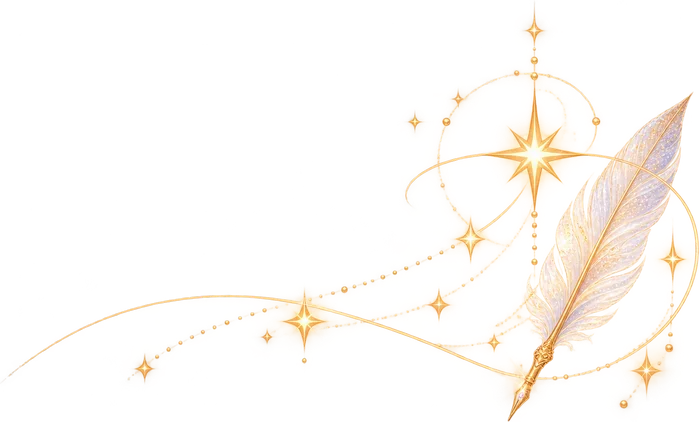
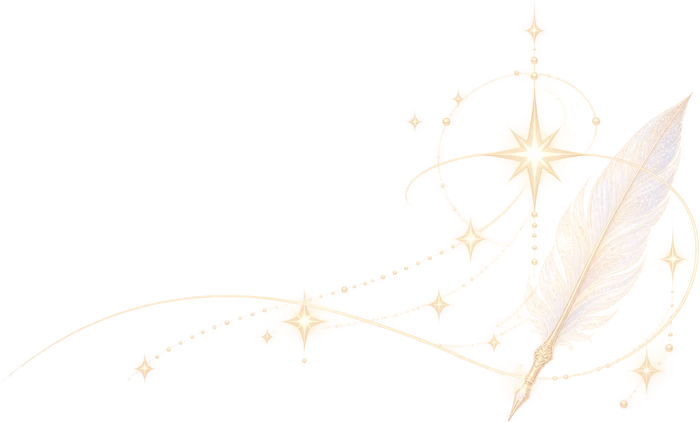
详细解读字级跟主题页一致；字体与句号细修；羽毛笔素材调淡 (#87)
* 详细解读字级跟主题页一致；生命脉络「一个小小的洞察」改宋体

Claude-Session: https://claude.ai/code/session_01MevDwwcWkTnRkVNgnEDisG

* 生命脉络「从这里开始」卡片摘要与重点：字体字级跟主题页一致

Claude-Session: https://claude.ai/code/session_01MevDwwcWkTnRkVNgnEDisG

* 生命蓝图过场副标改宋体；内在指南写字处羽毛笔素材调淡

Claude-Session: https://claude.ai/code/session_01MevDwwcWkTnRkVNgnEDisG

* 写字处提示文字拿掉句号

Claude-Session: https://claude.ai/code/session_01MevDwwcWkTnRkVNgnEDisG

* 内在指南「今天有什么事情」问句字级缩小

Claude-Session: https://claude.ai/code/session_01MevDwwcWkTnRkVNgnEDisG

* 星空记录副标拿掉句号

Claude-Session: https://claude.ai/code/session_01MevDwwcWkTnRkVNgnEDisG

---------

diff --git a/app.html b/app.html
@@ -2852,7 +2852,8 @@
     /* —— 4. 长文的呼吸:本来就自成一句的短段落,给它引句的排法 ——
           文字一个字都没改、没搬、没删,只是这一段的字级与留白不一样。
           由 JS 依内容判断挂上 .pq,每一章最多一句;没有合适的就不会出现。 */
-    #dpage.thread-page .ch-full .dp-prose p.pq{
+    #dpage.thread-page .ch-full .dp-prose p.pq,
+    #dpage.thread-page .thread-trail > .thread-ch .ch-full .dp-prose p.pq{
       position:relative;margin:26px 0 26px;padding:22px 4px 0;
       font-family:var(--dp-serif);font-weight:400;
       font-size:18.5px;line-height:1.95;letter-spacing:.015em;color:#22233a
@@ -3308,11 +3309,11 @@
     box-shadow:0 0 34px rgba(186,176,232,.26),0 10px 26px rgba(96,86,150,.06)
   }
   #dpage.thread-page .thread-bridge .insight .lb{
-    display:block;margin-bottom:12px;font-family:var(--dp-sans);font-size:12.5px;letter-spacing:.2em;color:#8a7351
+    display:block;margin-bottom:12px;font-family:var(--dp-serif);font-size:12.5px;letter-spacing:.2em;color:#8a7351
   }
   #dpage.thread-page .thread-bridge .insight .lb span{color:rgba(196,152,72,.95)}
   #dpage.thread-page .thread-bridge .insight p{
-    margin:0;font-family:var(--dp-sans);font-size:clamp(14.5px,1.6vw,16px);line-height:2;color:#2c2d48
+    margin:0;font-family:var(--dp-serif);font-size:clamp(14.5px,1.6vw,16px);line-height:2;color:#2c2d48
   }
   #dpage.thread-page .thread-bridge .insight p + p{margin-top:8px}
 
@@ -3907,7 +3908,7 @@
     font-size:clamp(23px,2.8vw,30px);letter-spacing:.14em;line-height:1.5;color:#1c1f45;text-shadow:0 1px 10px rgba(255,250,244,.7)
   }
   #dpage.reading-page .rd-transit .s{
-    margin:16px 0 0;font-family:var(--dp-sans);font-size:clamp(13.5px,1.4vw,15px);
+    margin:16px 0 0;font-family:var(--dp-serif);font-size:clamp(13.5px,1.4vw,15px);
     line-height:2;letter-spacing:.05em;color:#34324d;font-weight:500;
     text-shadow:0 1px 8px rgba(255,250,244,.75)
   }
@@ -6507,18 +6508,18 @@
     margin:0;font-family:var(--dp-serif);line-height:1.75;color:var(--dp-ink)
   }
   #dpage.compass-page .cp-now .cp-note-card .cp-q2 b{
-    display:block;font-weight:700;font-size:16px;letter-spacing:.06em
+    display:block;font-weight:700;font-size:14.5px;letter-spacing:.06em
   }
   #dpage.compass-page .cp-now .cp-note-card .cp-q2 span{
-    display:block;font-weight:400;font-size:15px;letter-spacing:.12em;color:#4a4760
+    display:block;font-weight:400;font-size:13.5px;letter-spacing:.12em;color:#4a4760
   }
   #dpage.compass-page .cp-now .cp-note-card .cp-ta{
     display:block;width:100%;max-width:none;box-sizing:border-box;
     min-height:140px;margin:18px 0 0;padding:16px 18px 34px;border-radius:18px;
     text-align:left;line-height:1.9;font-size:15px;
     background:
-      /* 用户:羽毛笔小小的就好 */
-      url(assets/life/cp-mobile/note-quill.webp) right 8px bottom 8px / 92px auto no-repeat,
+      /* 用户:羽毛笔小小的就好;素材本身已调淡(约 42% 不透明),不抢字 */
+      url(assets/life/cp-mobile/note-quill.webp?v=2) right 8px bottom 8px / 92px auto no-repeat,
       rgba(255,255,255,.38);
     border:1px solid rgba(255,255,255,.88);
     box-shadow:none
@@ -6531,8 +6532,8 @@
   @media(min-width:768px){
     #dpage.compass-page .cp-now .cp-note-card{padding:32px 36px 30px}
     #dpage.compass-page .cp-now .cp-note-card .nc-moon{width:156px;height:150px}
-    #dpage.compass-page .cp-now .cp-note-card .cp-q2 b{font-size:18px}
-    #dpage.compass-page .cp-now .cp-note-card .cp-q2 span{font-size:16px}
+    #dpage.compass-page .cp-now .cp-note-card .cp-q2 b{font-size:16px}
+    #dpage.compass-page .cp-now .cp-note-card .cp-q2 span{font-size:14.5px}
     #dpage.compass-page .cp-now .cp-note-card .cp-ta{min-height:160px;background-size:118px auto,auto}
   }
 
@@ -7181,6 +7182,31 @@
   }
   /* 浮窗开着的时候,正文区整层要在 Hero 之上,标题才不会透过浮窗 */
   #dpage.records-page .dp-body:has(.rc-overlay){z-index:3}
+
+  /* 详细解读(生命蓝图 / 生命脉络)的正文与引子:字级、行高、字重、字距跟主题页
+     .tp-full .dp-prose p / .tp-peek .pv 完全同一套(用户要求)。放在最后,盖过各页
+     先前各自写的数字;!important 只为了压过原本就带 !important 的 .rd-sum */
+  #dpage.reading-page .dp-detail .rd-sum,
+  #dpage.reading-page .dp-detail .dp-prose,
+  #dpage.reading-page .dp-detail .dp-prose p:not(.pq),
+  #dpage.thread-page .thread-trail > .thread-ch .ch-peek .pv,
+  #dpage.thread-page .thread-trail > .thread-ch .ch-full .dp-prose,
+  #dpage.thread-page .thread-trail > .thread-ch .ch-full .dp-prose p:not(.pq),
+  #dpage.thread-page .ch-reader .pv,
+  #dpage.thread-page .ch-reader .bd,
+  #dpage.thread-page .ch-reader .bd p:not(.pq),
+  #dpage.thread-page .ch-slot .pv,
+  #dpage.thread-page .ch-slot .bd,
+  #dpage.thread-page .ch-slot .bd p:not(.pq),
+  #dpage.thread-page .thread-chapters .ch-card .pv{
+    font-family:var(--dp-sans)!important;font-weight:400!important;
+    font-size:clamp(14px, 13.7px + .1vw, 14.5px)!important;line-height:1.9!important;letter-spacing:.01em!important
+  }
+  /* 「从这里开始」卡片的重点列表:跟主题页 .tp-peek .ch-keys li 同一套 */
+  #dpage.thread-page .thread-chapters .ch-card .ch-keys li{
+    font-family:var(--dp-sans)!important;font-weight:500!important;
+    font-size:clamp(13px, 12.7px + .1vw, 13.5px)!important;line-height:1.7!important;letter-spacing:.01em!important
+  }
 </style>
 </head>
 <!-- legacy-off 直接写在标签上,不等 JS。
@@ -14929,7 +14955,7 @@ window.Guide = (function () {
       '<p class="cp-q cp-q2"><b>' + esc0(dpT("今天有什么事情，", "What has been")) + "</b>" +
       "<span>" + esc0(dpT("一直停留在你心里？", "staying with you today?")) + "</span></p>" +
       '<textarea id="cpNote" class="cp-ta" rows="4" placeholder="' +
-      esc0(dpT("写一点也可以，\n不需要把它整理得很好。",
+      esc0(dpT("写一点也可以，\n不需要把它整理得很好",
                "A few words is enough.\nIt doesn’t need to be tidy.")) + '"></textarea>' +
       '<div class="cp-act"><button type="button" class="dp-cta" id="cpSave">' +
       esc0(dpT("保存这一刻", "Keep this moment")) + "</button>" +
@@ -16400,7 +16426,7 @@ window.Guide = (function () {
     }
     dpScaffold({
       title: dpT("我的星空记录", "My Sky Record"),
-      sub: dpT("那些曾经停下来看看自己的时刻，\n都被留在这里。", "The moments you stopped to look at yourself\nare kept here."),
+      sub: dpT("那些曾经停下来看看自己的时刻，\n都被留在这里", "The moments you stopped to look at yourself\nare kept here."),
       body: body,
       backLabel: dpT("返回内在指南", "Back to my compass"),
       backHref: "#/compass",
